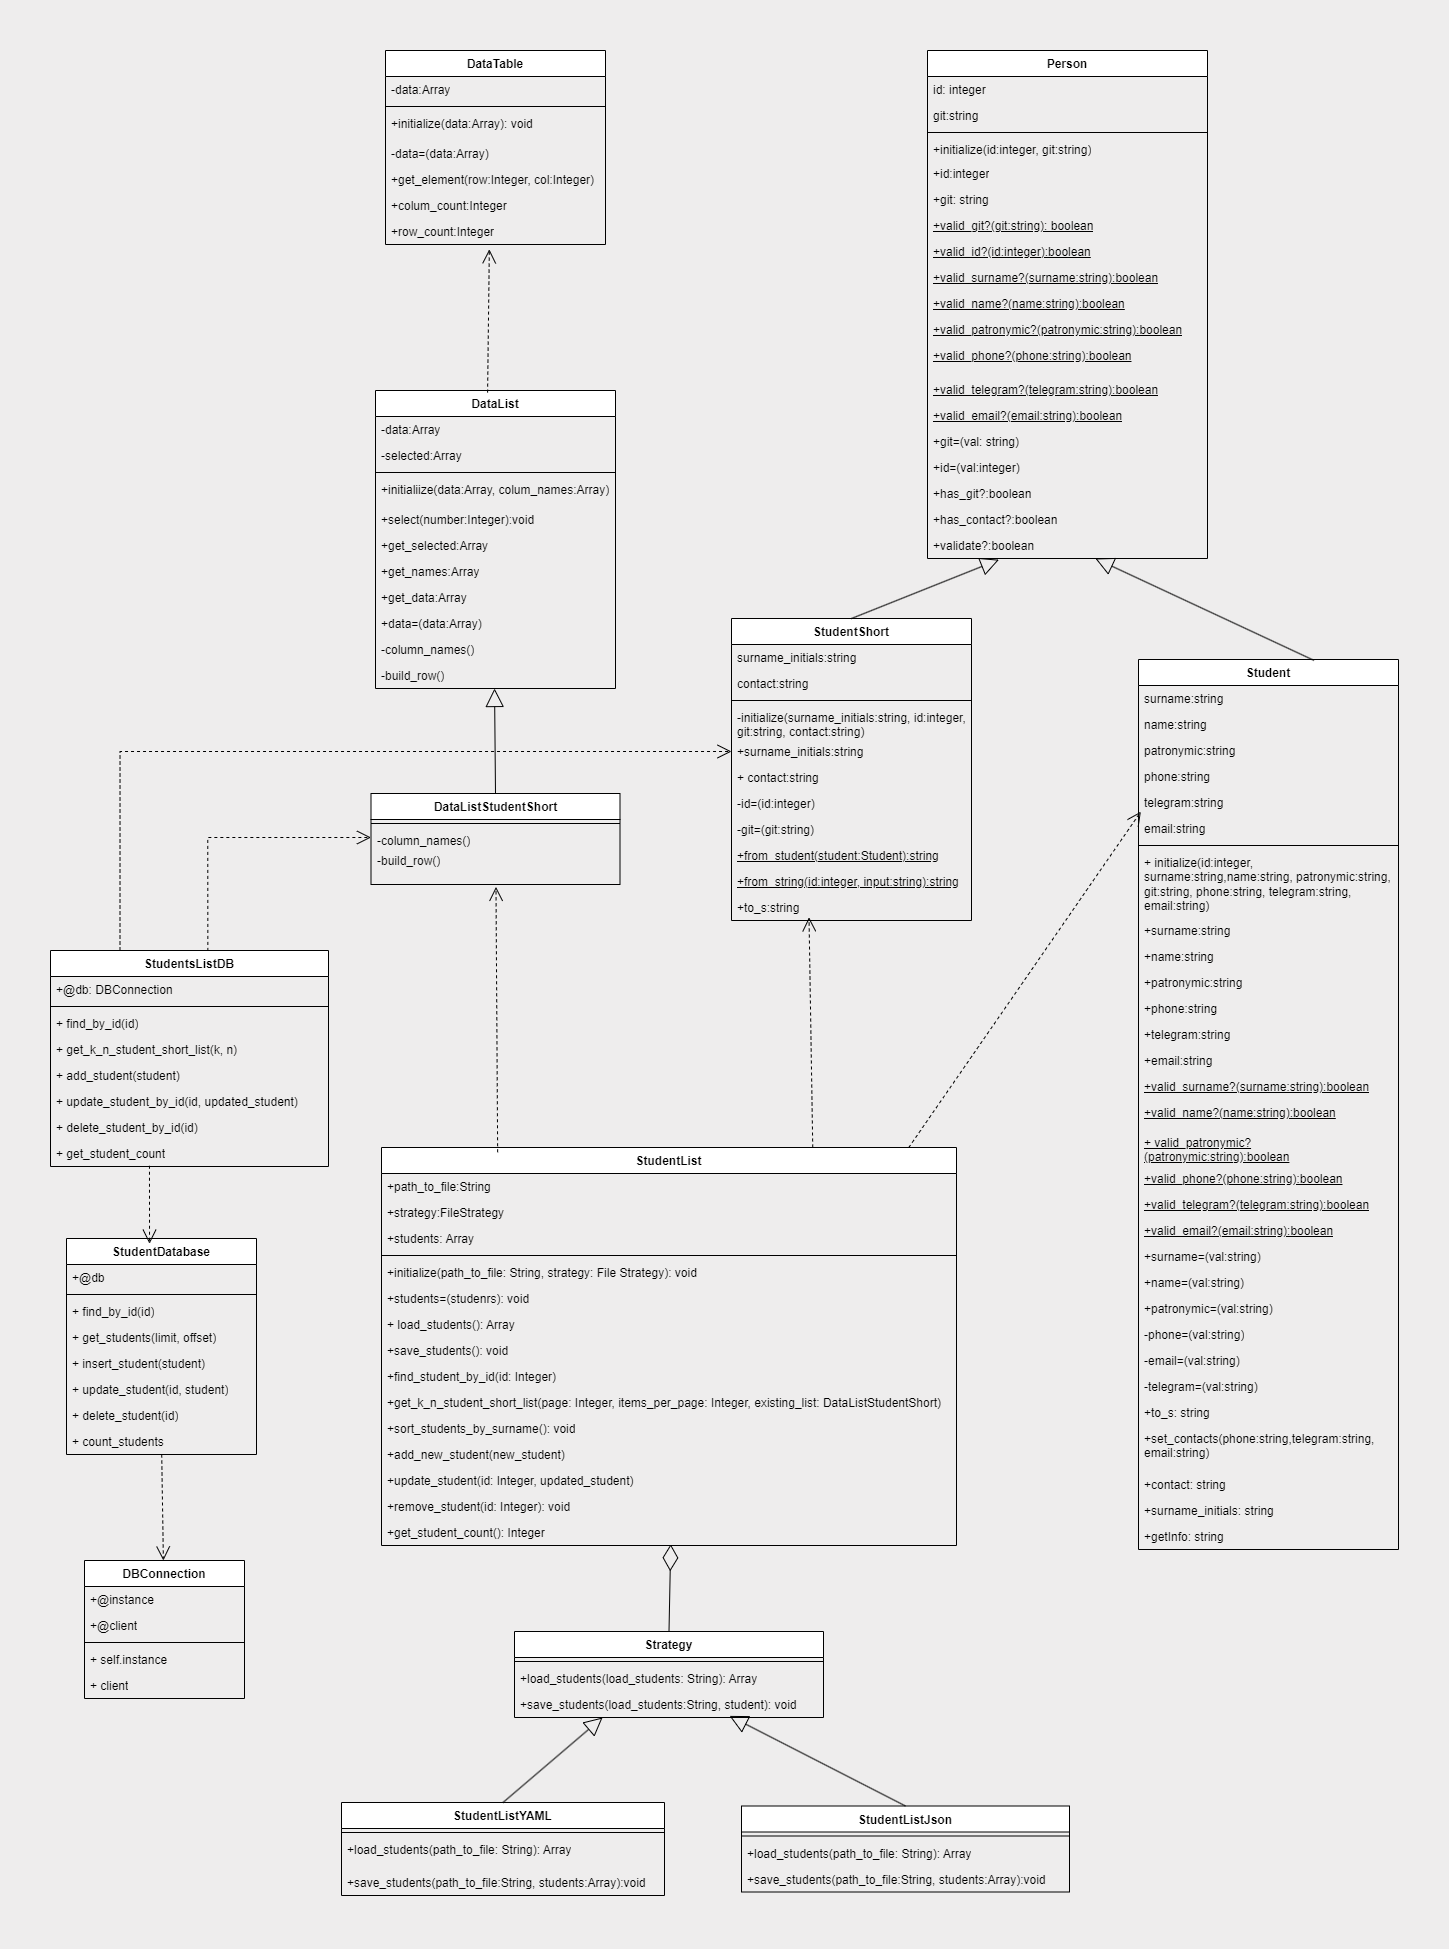
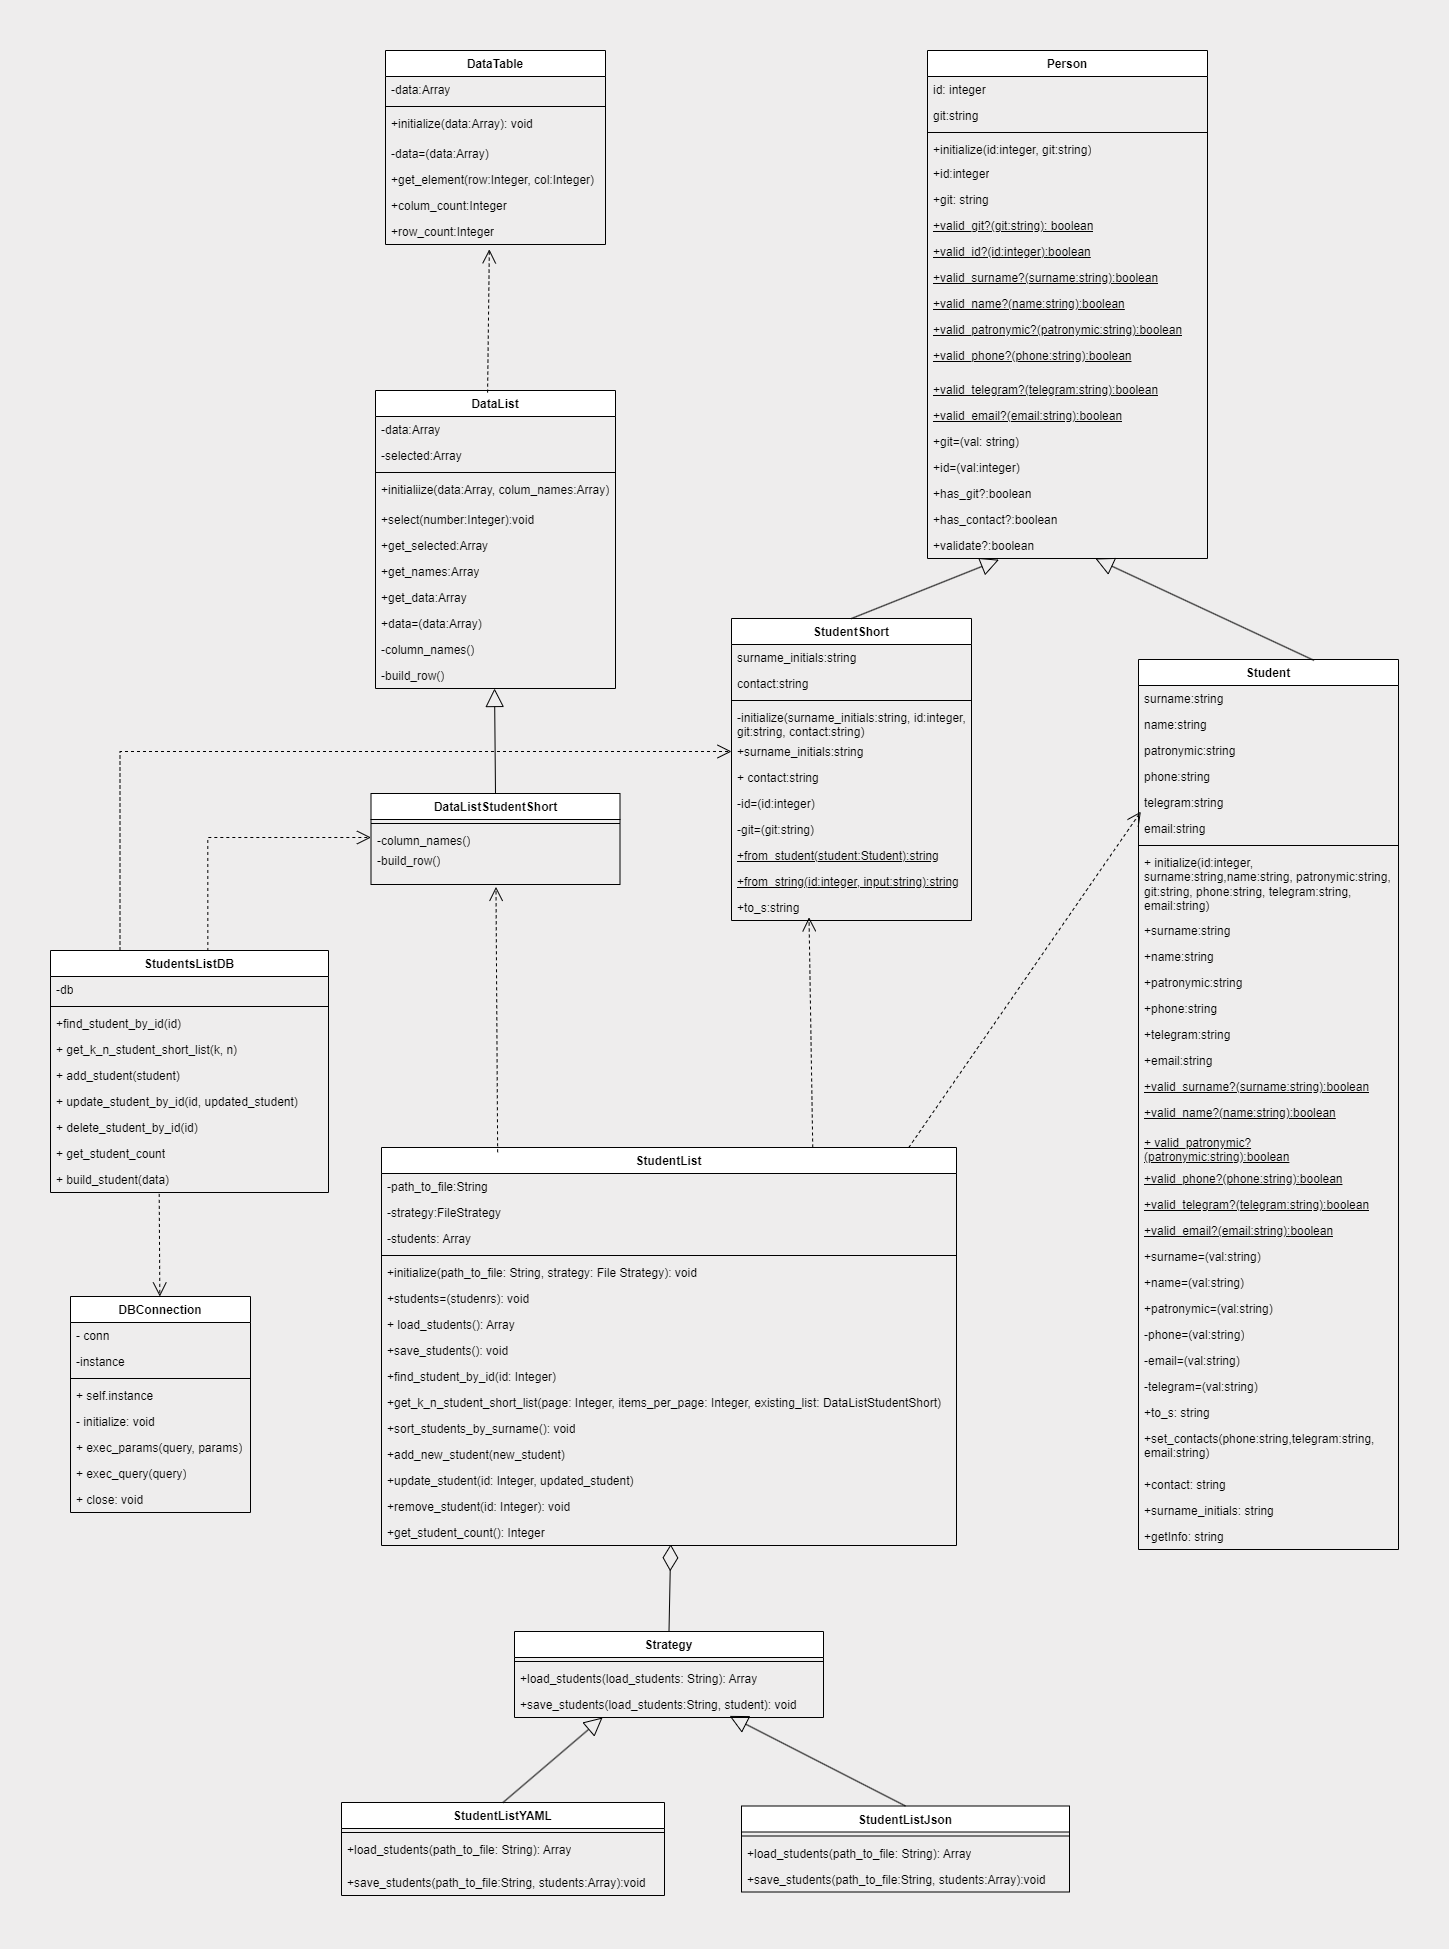
lab 4 update diagram

Changed region(s): [[0.0311, 0.5849, 0.1553, 0.7696], [0.0621, 0.8004, 0.1242, 0.862], [0.2795, 0.6157, 0.3416, 0.6465]]

diff --git a/class_student/database/Student_list_DB.rb b/class_student/database/Student_list_DB.rb
@@ -1,6 +1,6 @@
 require_relative 'C:\Users\admin\Documents\GitHub\ruby\class_student\studentShort.rb'
 require_relative 'C:\Users\admin\Documents\GitHub\ruby\class_student\data\Data_list_student_short.rb'
-require_relative 'student_database'
+
 
 class StudentsListDB
   def initialize
